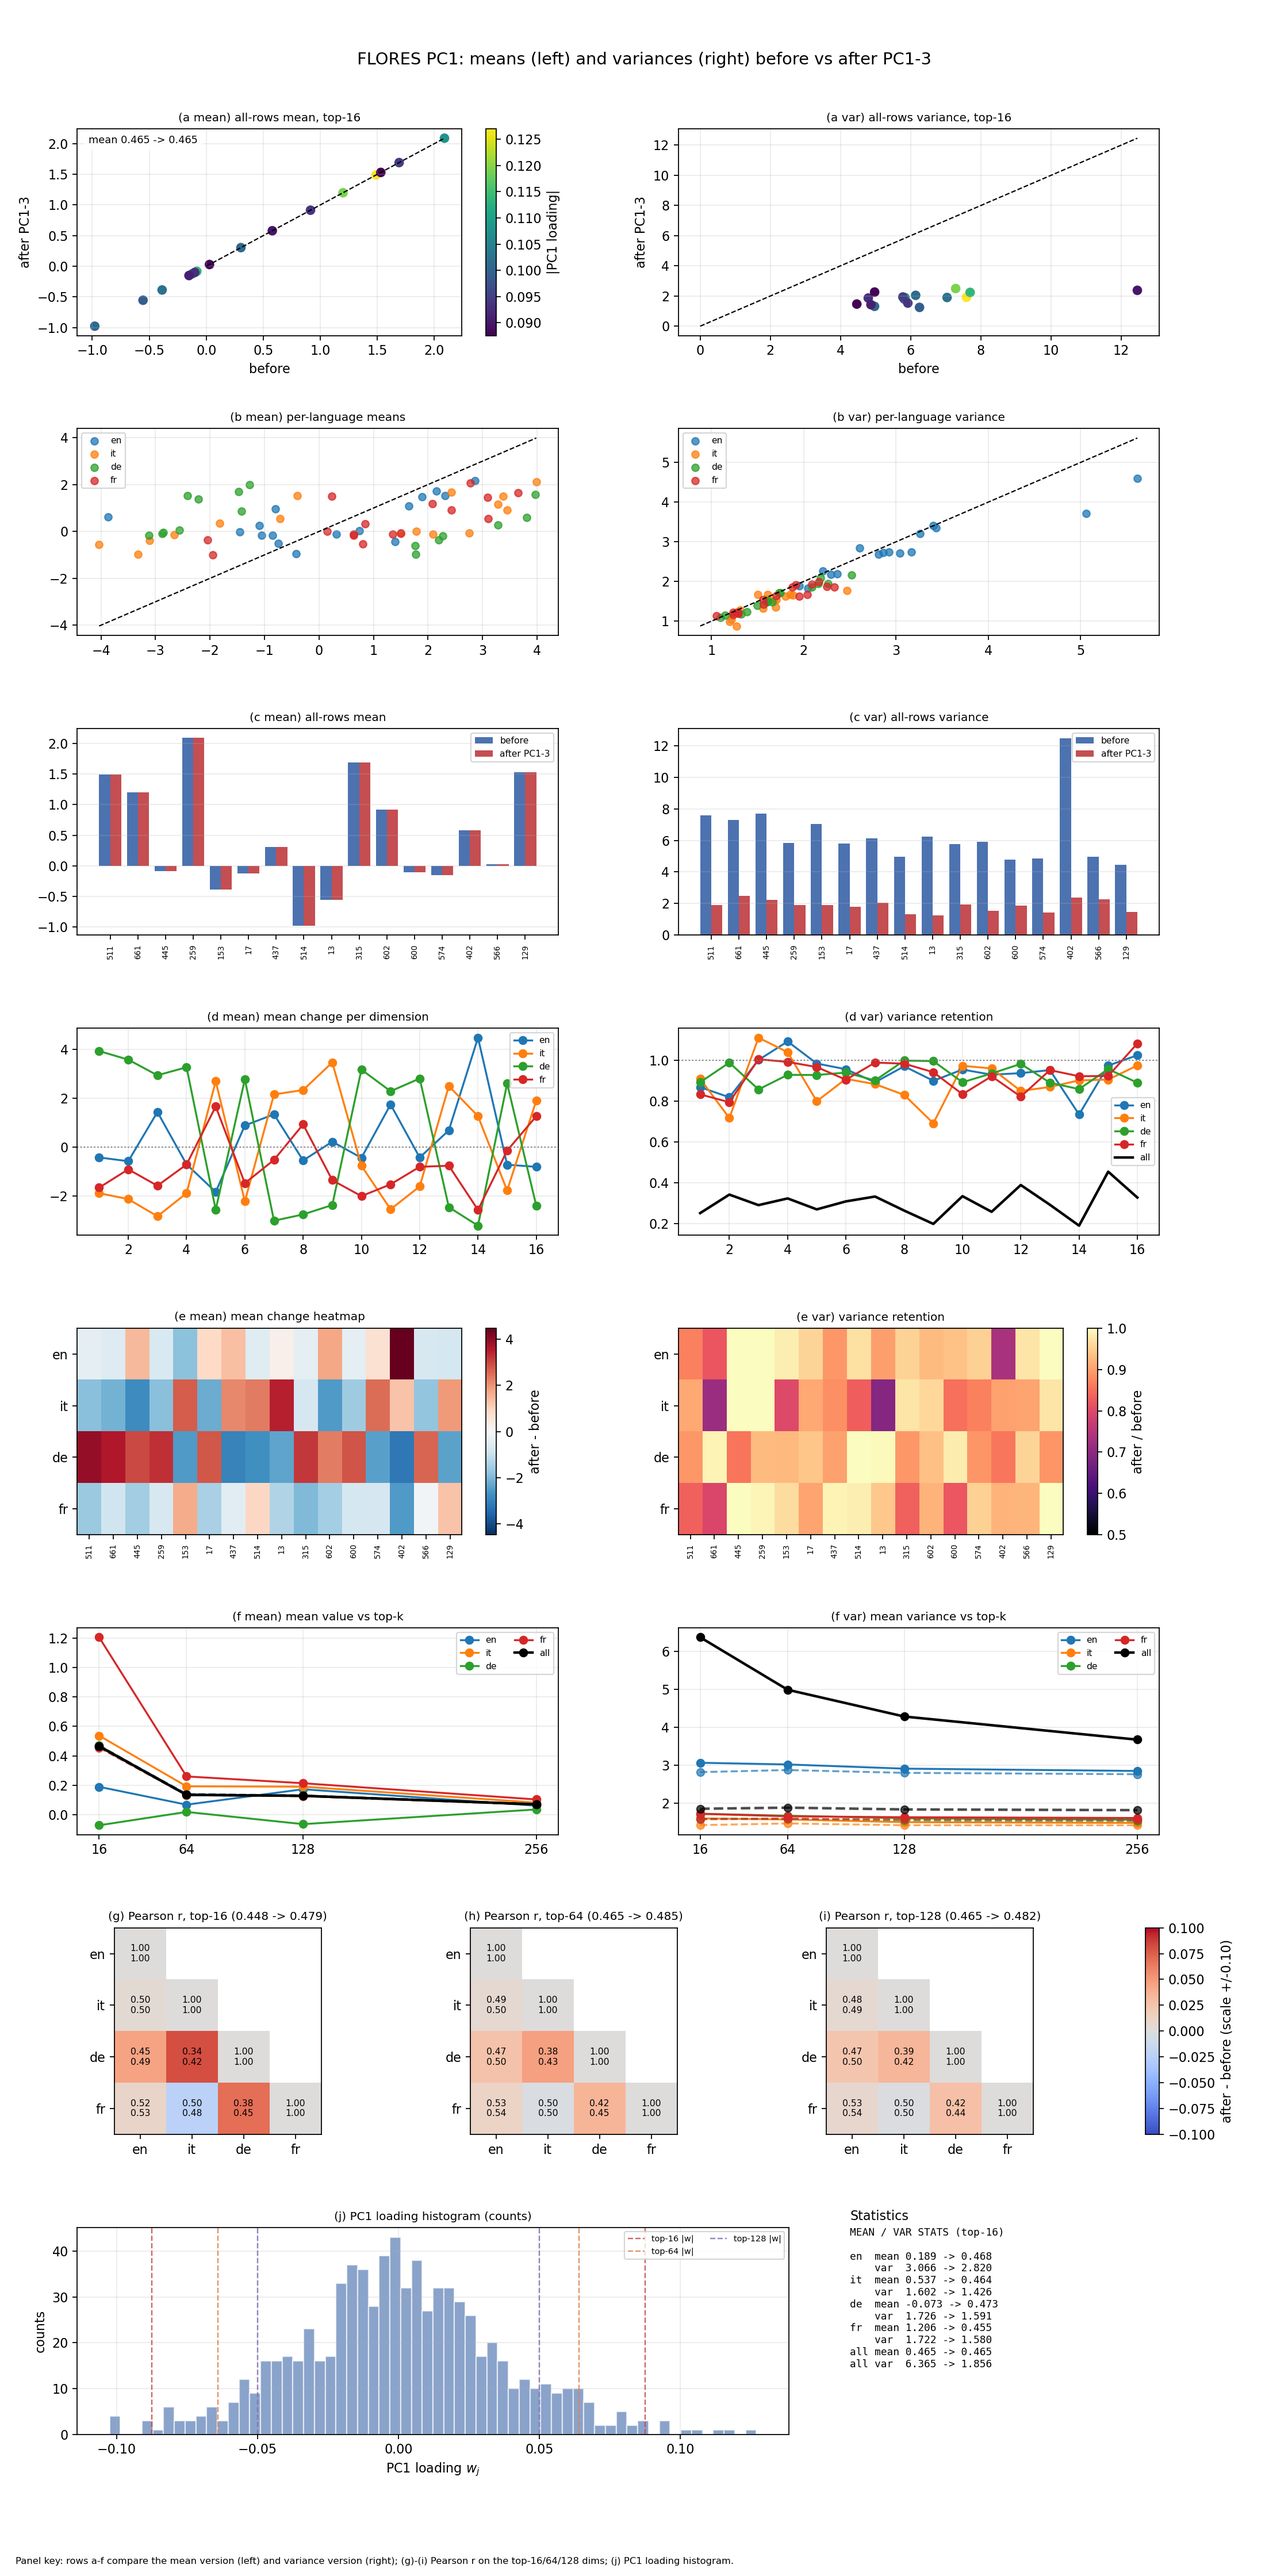
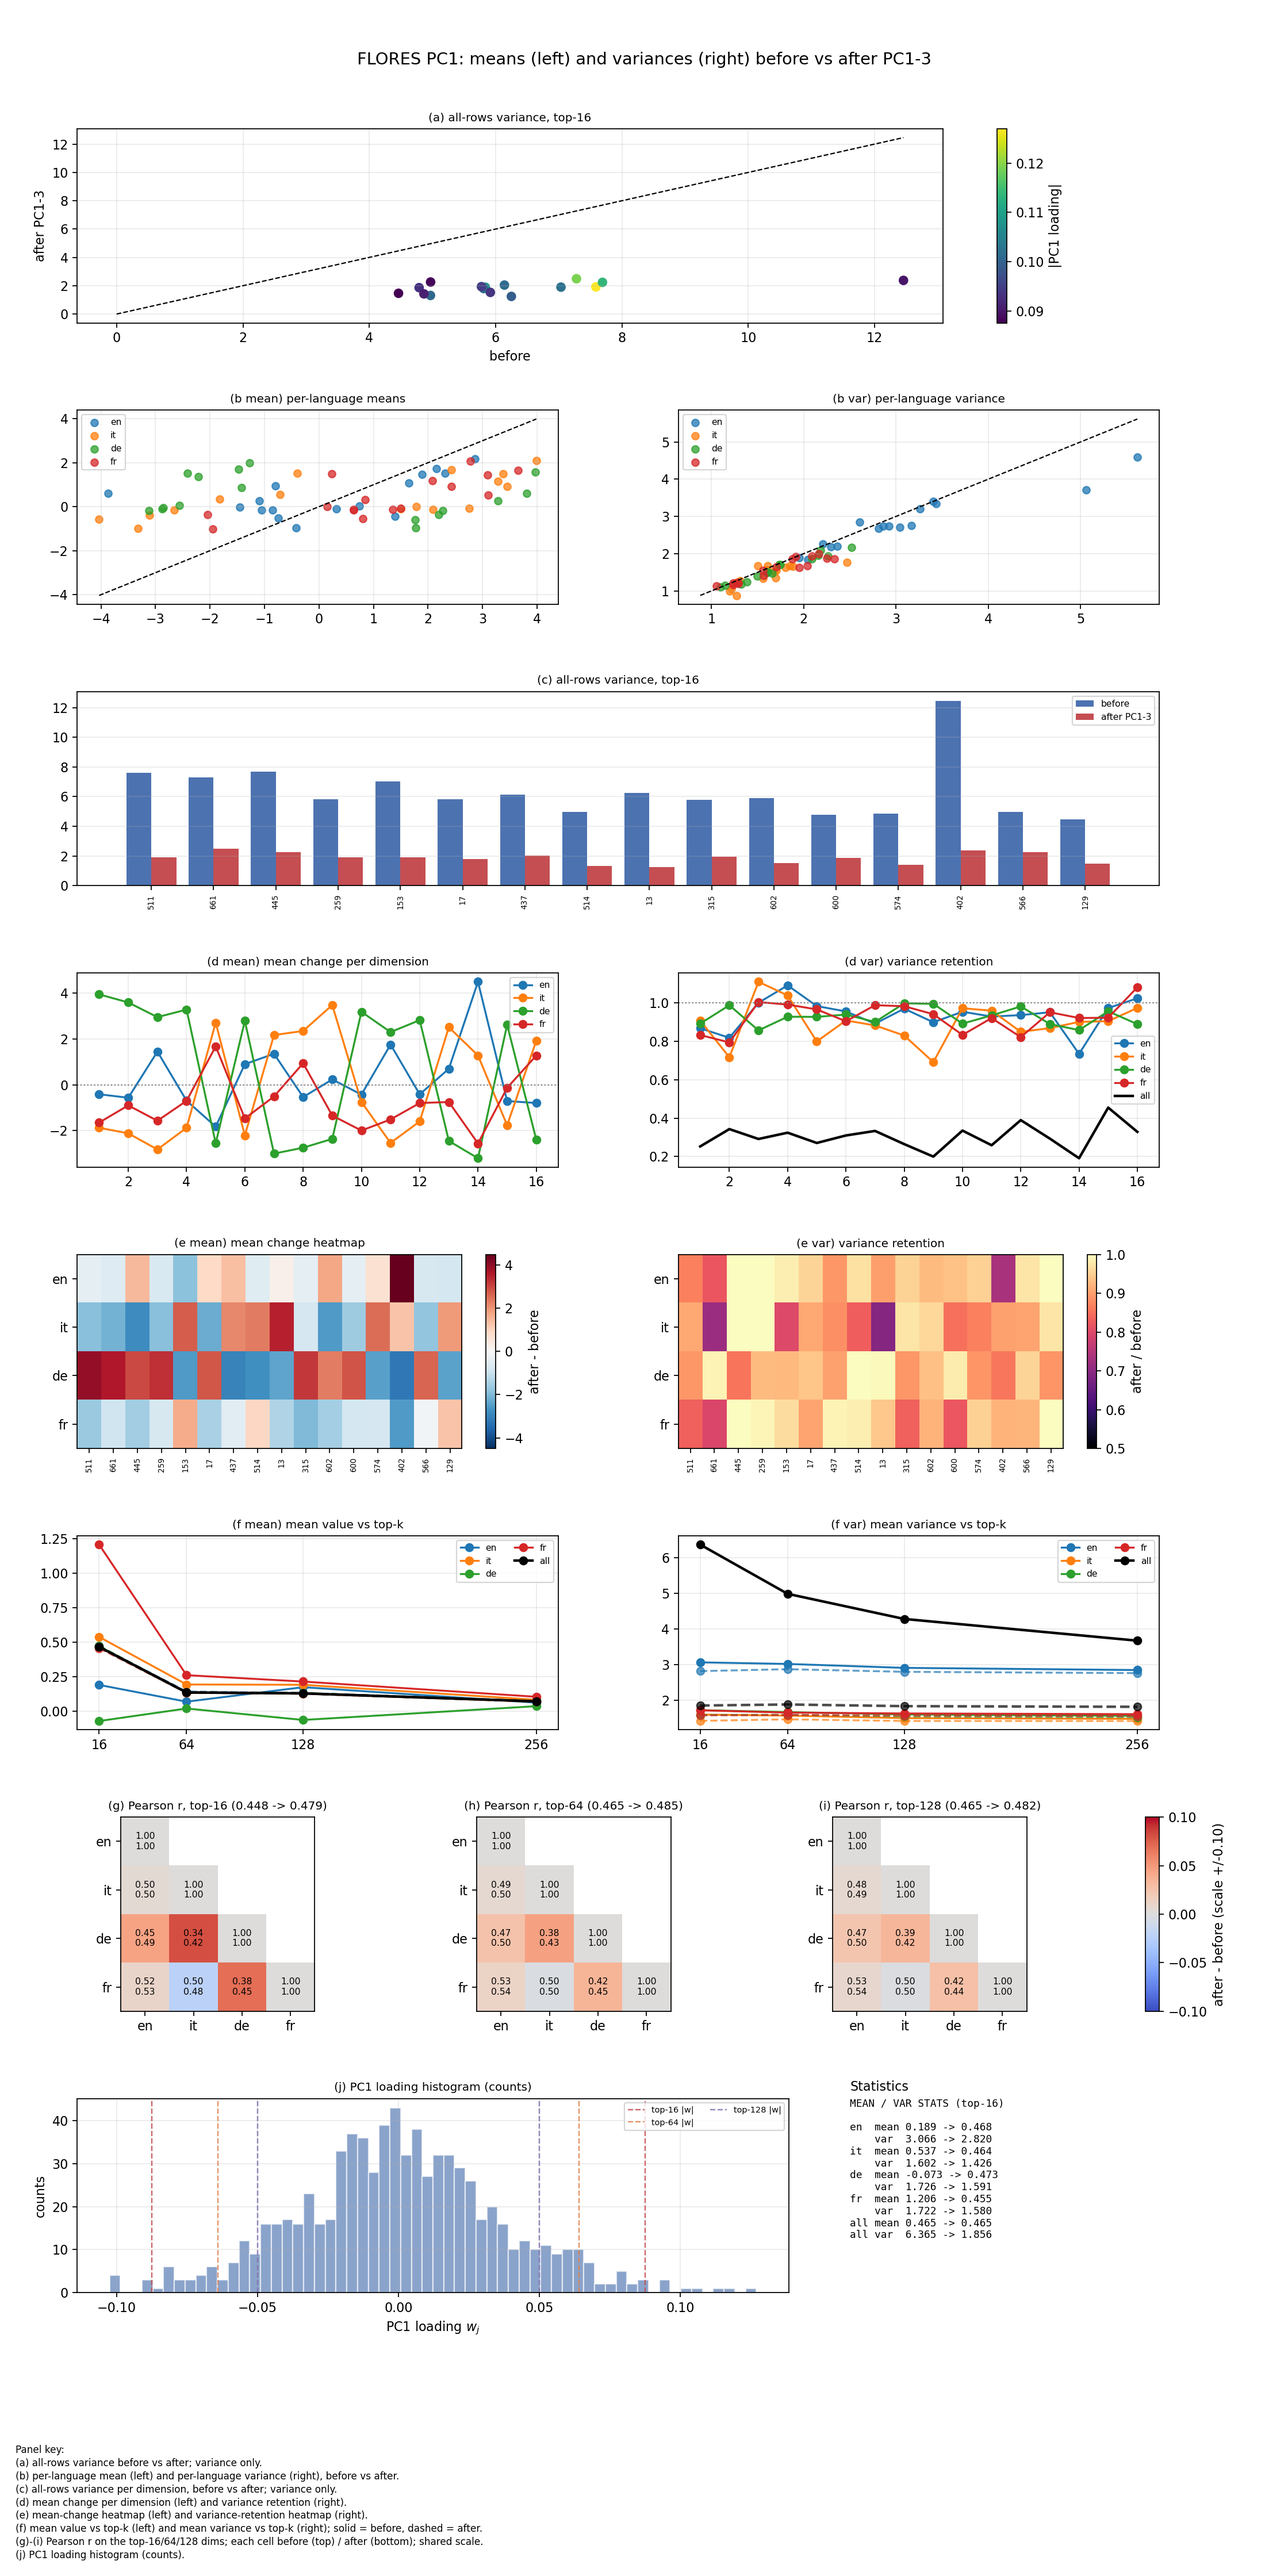
Update FLORES PC1 paired mean/variance graph with panel key

diff --git a/pc1_dual_panels.py b/pc1_dual_panels.py
@@ -74,17 +74,11 @@ def main():
         a.grid(alpha=.25)
         return sc
 
-    # row 0: a
-    a = fig.add_subplot(gs[0, 0])
-    sc = diag(a, amb, ama, "(a mean) all-rows mean, top-%d" % n)
-    a.text(0.03, 0.97, "mean %.3f -> %.3f" % (amb.mean(), ama.mean()),
-           transform=a.transAxes, va="top", fontsize=8,
-           bbox=dict(facecolor="white", alpha=.8, edgecolor="none"))
+    # row 0: a (variance only; the global mean is invariant)
+    a = fig.add_subplot(gs[0, :])
+    sc = diag(a, avb, ava, "(a) all-rows variance, top-%d" % n)
     a.set_xlabel("before"); a.set_ylabel("after PC1-3")
     fig.colorbar(sc, ax=a, label="|PC1 loading|")
-    a = fig.add_subplot(gs[0, 1])
-    diag(a, avb, ava, "(a var) all-rows variance, top-%d" % n)
-    a.set_xlabel("before"); a.set_ylabel("after PC1-3")
 
     # row 1: b
     for col, (data_b, data_a, title) in enumerate([
@@ -101,18 +95,14 @@ def main():
         a.legend(fontsize=7)
         a.grid(alpha=.25)
 
-    # row 2: c
+    # row 2: c (variance only)
+    a = fig.add_subplot(gs[2, :])
     x = np.arange(n)
-    for col, (b_, a_, title) in enumerate([
-            (amb, ama, "(c mean) all-rows mean"),
-            (avb, ava, "(c var) all-rows variance")]):
-        ax = fig.add_subplot(gs[2, col])
-        ax.bar(x - .2, b_, .4, label="before", color="#4c72b0")
-        ax.bar(x + .2, a_, .4, label="after PC1-3", color="#c44e52")
-        ax.set_xticks(x); ax.set_xticklabels(dim, rotation=90, fontsize=6)
-        ax.set_title(title, fontsize=9)
-        ax.legend(fontsize=7)
-        ax.grid(axis="y", alpha=.25)
+    a.bar(x - .2, avb, .4, label="before", color="#4c72b0")
+    a.bar(x + .2, ava, .4, label="after PC1-3", color="#c44e52")
+    a.set_xticks(x); a.set_xticklabels(dim, rotation=90, fontsize=6)
+    a.set_title("(c) all-rows variance, top-%d" % n, fontsize=9)
+    a.legend(fontsize=7); a.grid(axis="y", alpha=.25)
 
     # row 3: d
     a = fig.add_subplot(gs[3, 0])
@@ -211,11 +201,20 @@ def main():
 
     fig.suptitle("%s PC1: means (left) and variances (right) before vs after PC1-3"
                  % args.dataset.upper(), fontsize=13)
-    fig.text(0.012, 0.004,
-             "Panel key: rows a-f compare the mean version (left) and variance version (right); "
-             "(g)-(i) Pearson r on the top-16/64/128 dims; (j) PC1 loading histogram.",
-             fontsize=7.4, va="bottom", ha="left")
-    fig.subplots_adjust(top=.95, bottom=.055, left=.06, right=.90)
+    legend = [
+        "Panel key:",
+        "(a) all-rows variance before vs after; variance only.",
+        "(b) per-language mean (left) and per-language variance (right), before vs after.",
+        "(c) all-rows variance per dimension, before vs after; variance only.",
+        "(d) mean change per dimension (left) and variance retention (right).",
+        "(e) mean-change heatmap (left) and variance-retention heatmap (right).",
+        "(f) mean value vs top-k (left) and mean variance vs top-k (right); solid = before, dashed = after.",
+        "(g)-(i) Pearson r on the top-16/64/128 dims; each cell before (top) / after (bottom); shared scale.",
+        "(j) PC1 loading histogram (counts).",
+    ]
+    fig.text(0.012, 0.006, "\n".join(legend), fontsize=7.6, va="bottom",
+             ha="left", linespacing=1.35)
+    fig.subplots_adjust(top=.95, bottom=.11, left=.06, right=.90)
     out = os.path.join(args.outdir, "%s_pc1_mean_var_panels_210m.png" % args.dataset)
     fig.savefig(out, dpi=160)
     print("wrote", out)
